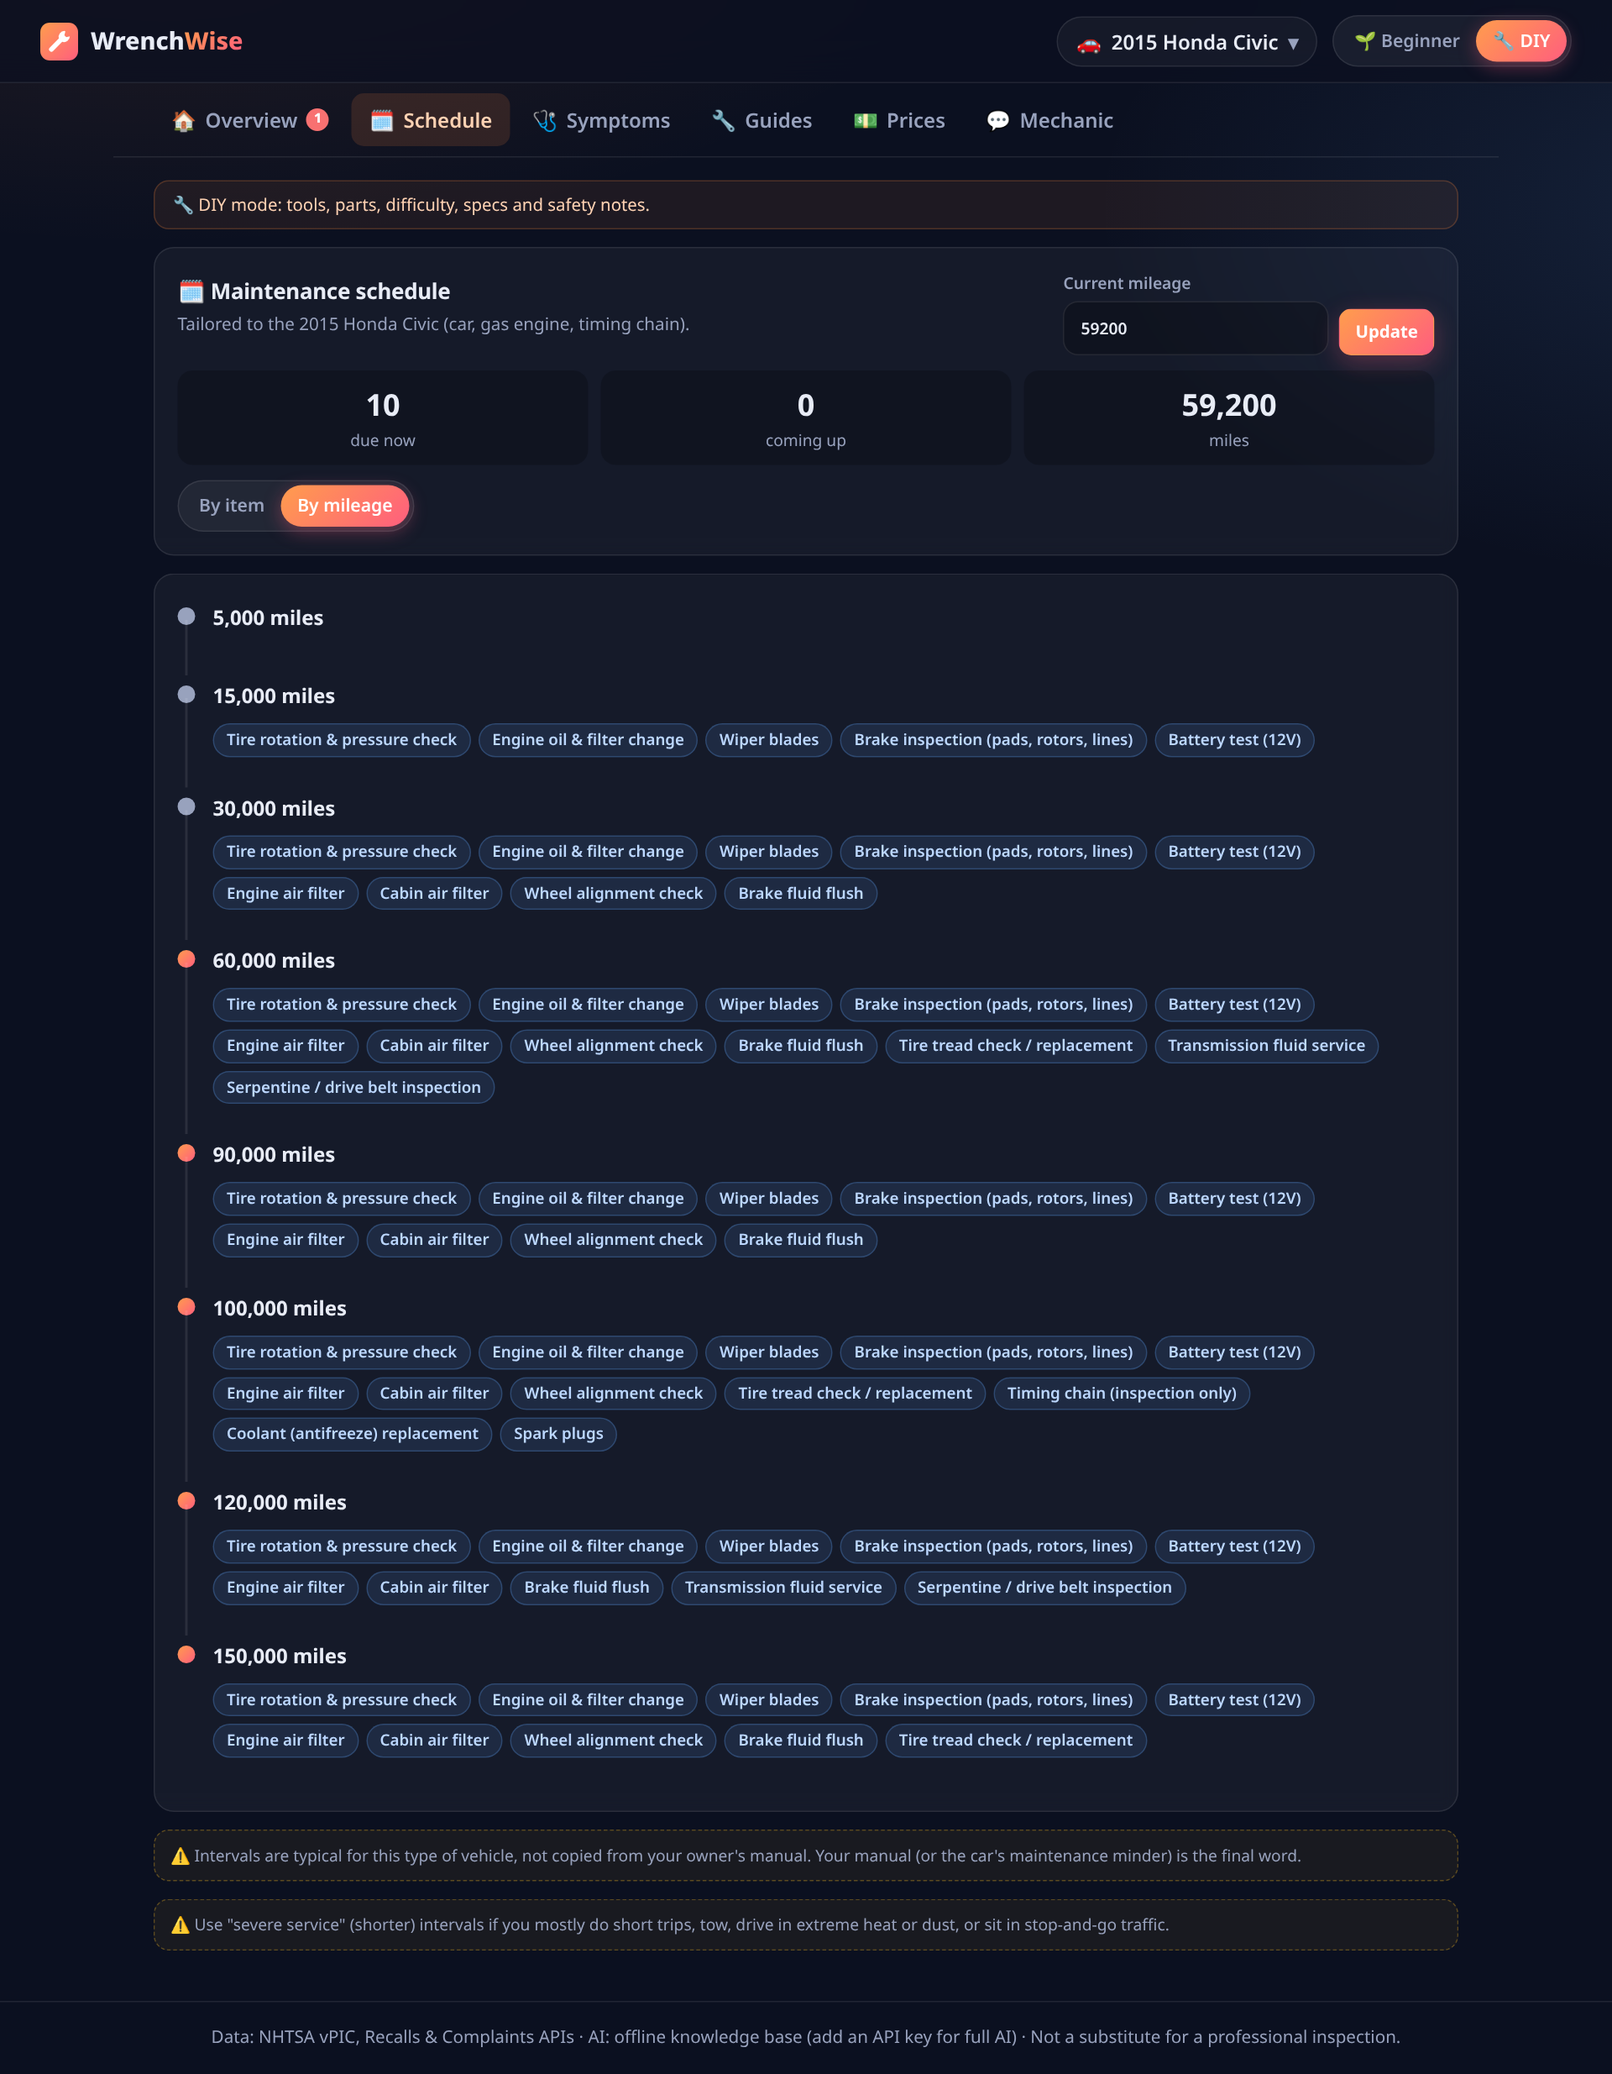
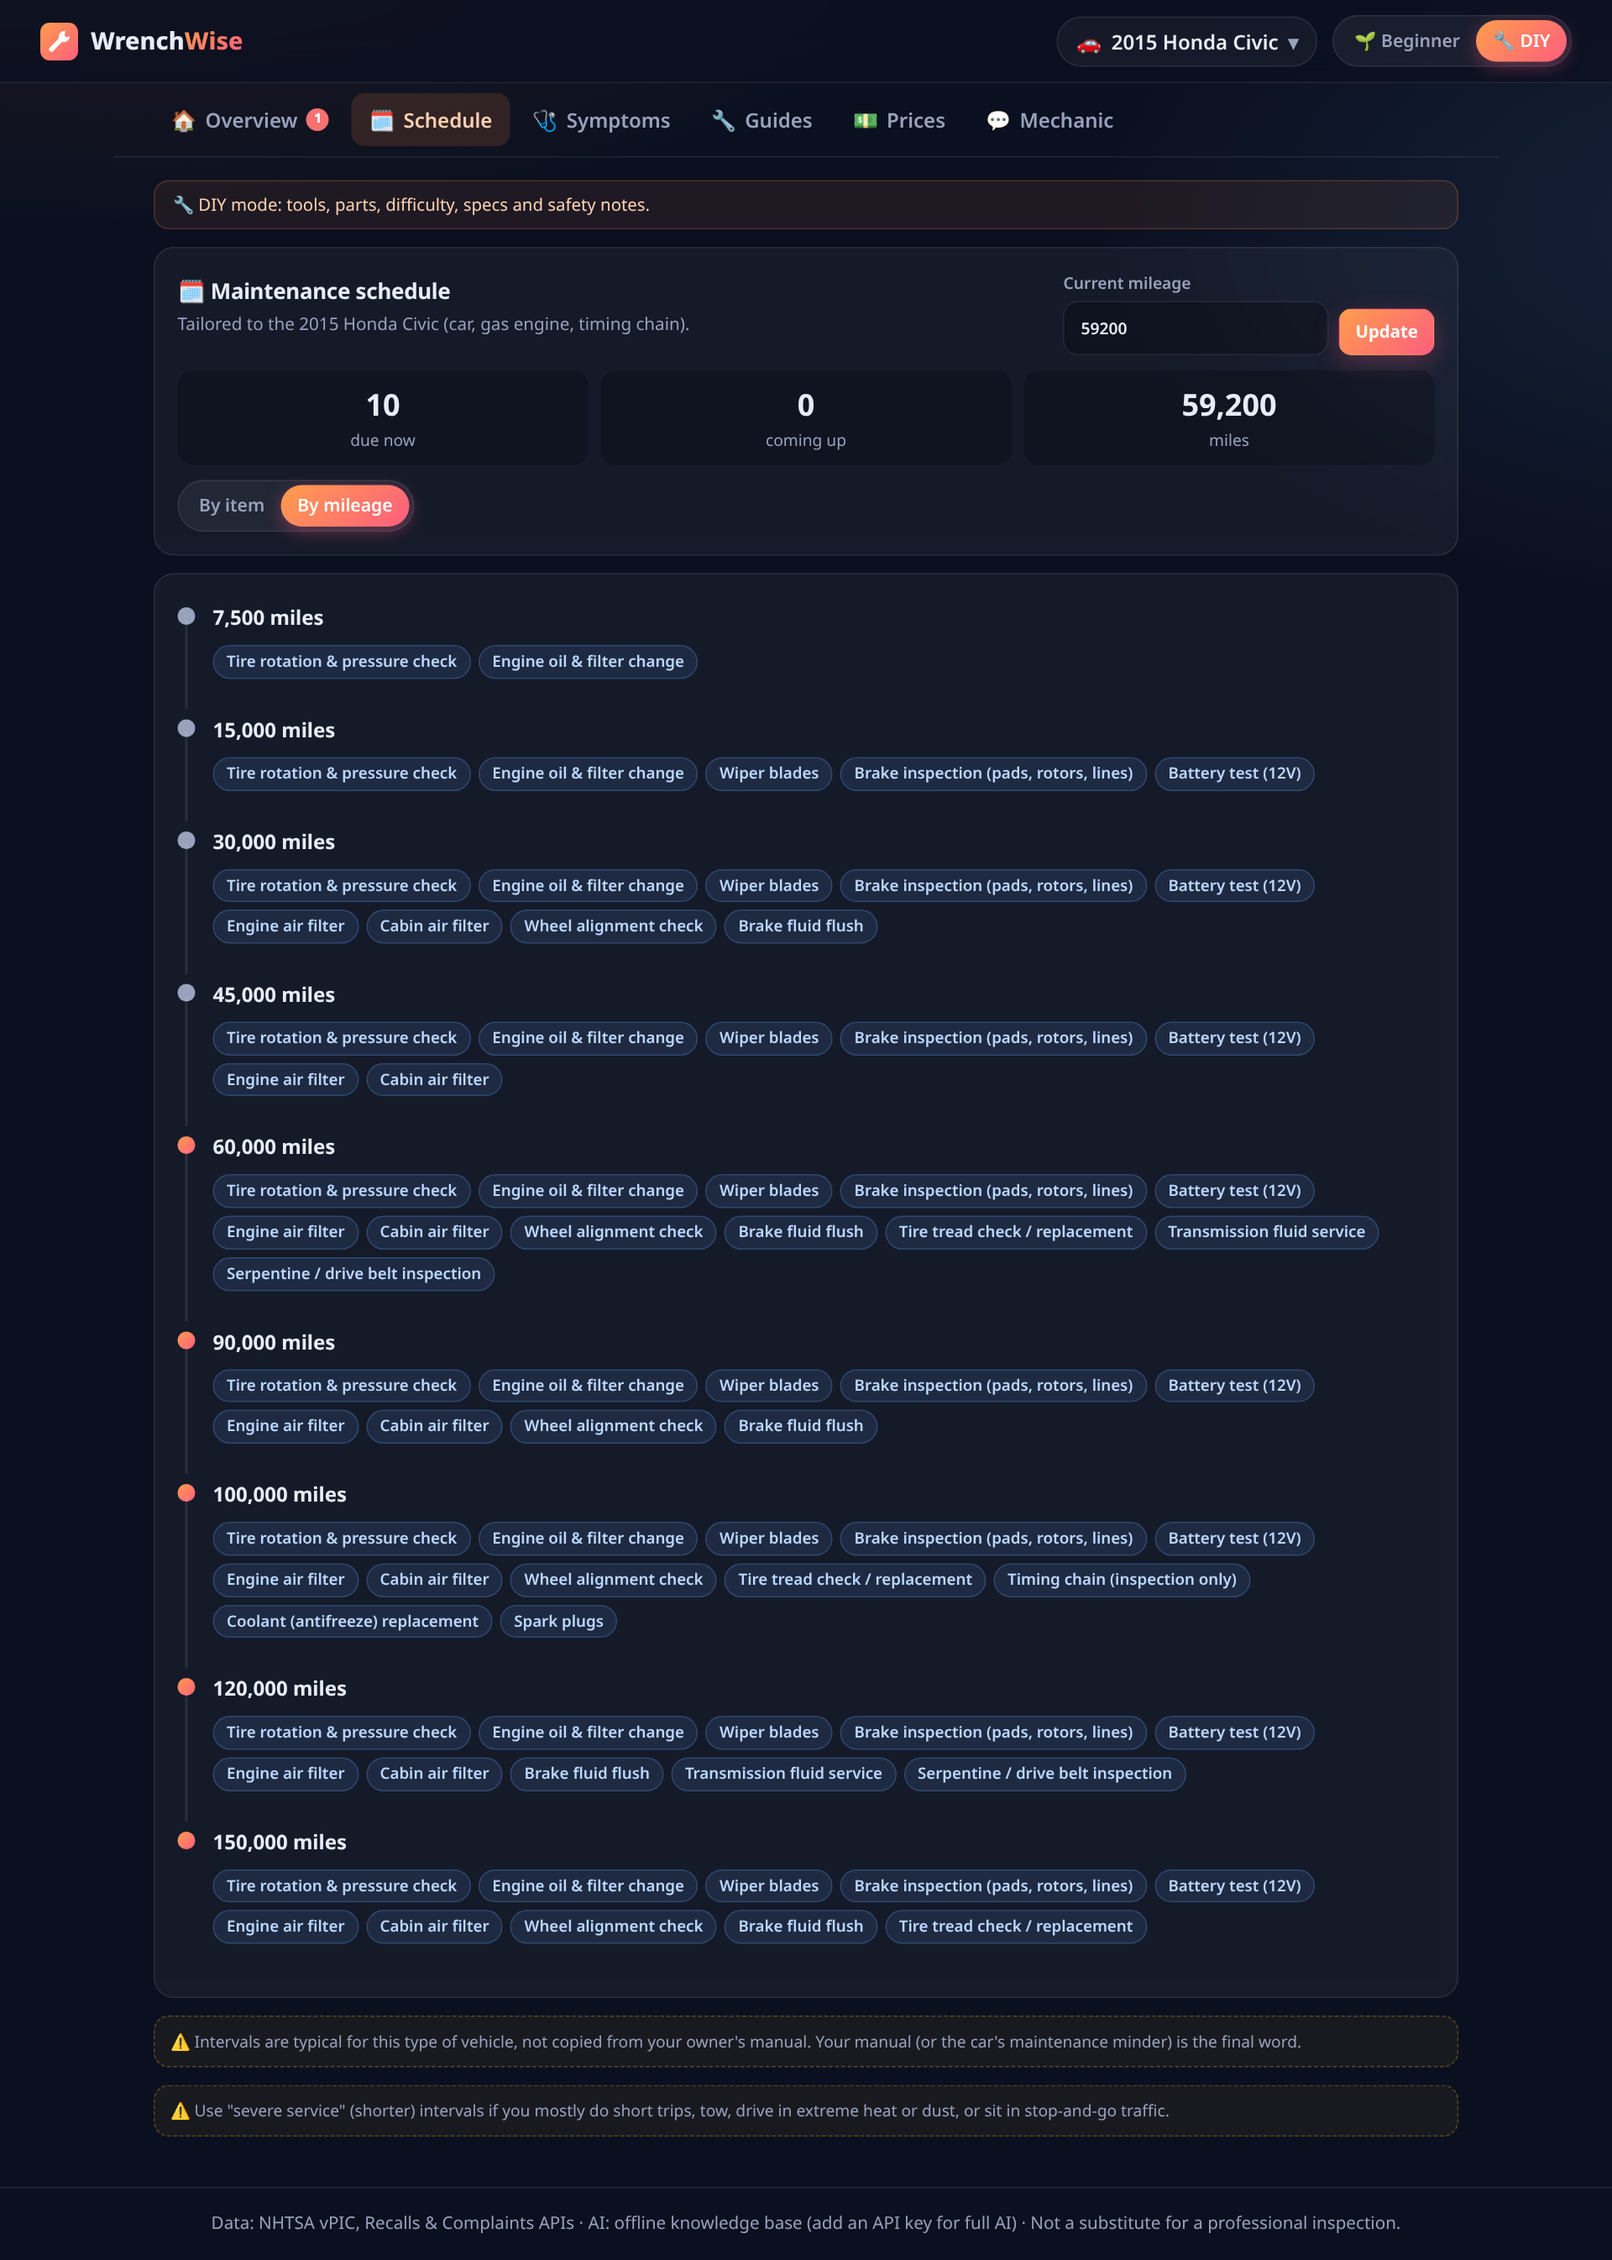
Maintenance timeline milestones start at first oil interval

diff --git a/server/kb/maintenance.js b/server/kb/maintenance.js
@@ -139,7 +139,7 @@ export function buildSchedule(profile, currentMileage = 0, mode = 'beginner') {
   });
 
   // Milestone timeline (what happens at each major visit)
-  const marks = [5000, 15000, 30000, 60000, 90000, 100000, 120000, 150000];
+  const marks = [7500, 15000, 30000, 45000, 60000, 90000, 100000, 120000, 150000];
   const milestones = marks.map((m, idx) => {
     const prev = idx === 0 ? 0 : marks[idx - 1];
     return { miles: m, items: items.filter((i) => Math.floor(m / i.miles) > Math.floor(prev / i.miles)).map((i) => i.name) };
